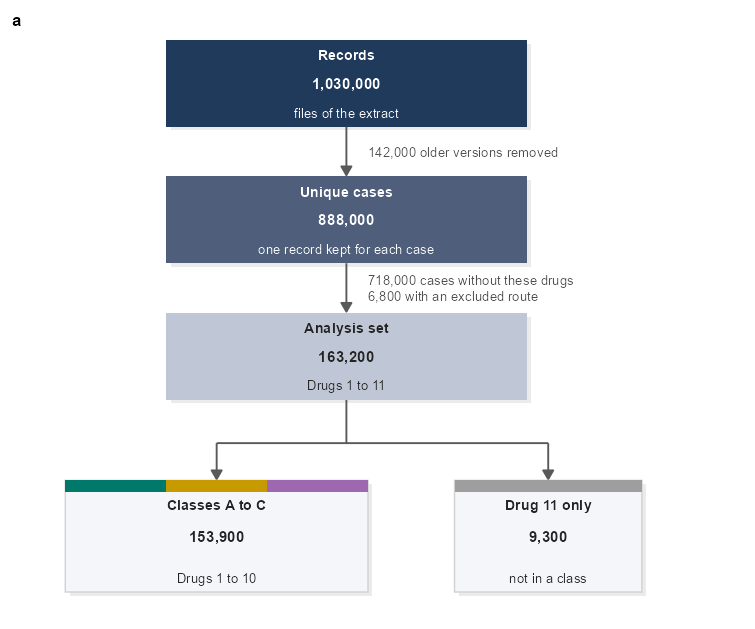
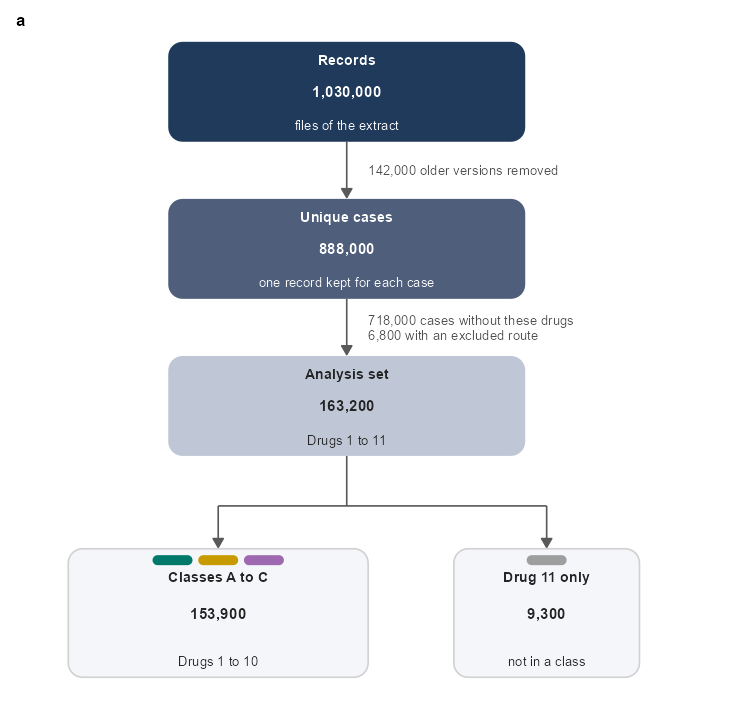
Give the flow chart of the reporting study rounded, flat boxes
The boxes are polygons with a quarter of a circle at each corner (ggplot2 has no rounded rectangle), the shadows are gone, the outlines and the arrows share one line width, the classes are small pills in place of the strips, and coord_fixed() keeps the corners round. The style follows the design rules of FigForge, a tool in which an AI model draws diagrams; none of its code or prompts is used, and the article and the NEWS say so. Version 1.8.8.

diff --git a/articles/reporting-study.md b/articles/reporting-study.md
@@ -179,8 +179,8 @@ head(cells[cells$signal, c("drug", "event", "a", "ror", "lo", "hi")], 4)
 
 ## 2. Figure 1: The Flow of the Cases
 
-A flow chart is a plot with no axes: boxes are `geom_rect()`, their text
-is `geom_text()`, and the arrows are `geom_segment()` with an `arrow()`.
+A flow chart is a plot with no axes: boxes are polygons, their text is
+`geom_text()`, and the arrows are `geom_segment()` with an `arrow()`.
 Everything sits on a plane of 100 by 100, so that the position of a box
 is a number that can be read and changed. The counts are computed from
 the study, so that the chart agrees with the figures after it.
@@ -208,6 +208,24 @@ boxes$ink <- c("white", "white", ink, ink, ink)
 boxes$x <- (boxes$xmin + boxes$xmax) / 2
 boxes$y <- (boxes$ymin + boxes$ymax) / 2
 
+# ggplot2 has no rounded rectangle, so a box is a polygon: a quarter of a circle at each corner
+polygon_of <- function(xmin, xmax, ymin, ymax, radius, id, fill, edge) {
+  turn <- seq(0, pi / 2, length.out = 9)
+  corner <- function(cx, cy, from) cbind(cx + radius * cos(from + turn), cy + radius * sin(from + turn))
+  p <- rbind(corner(xmax - radius, ymax - radius, 0), corner(xmin + radius, ymax - radius, pi / 2),
+             corner(xmin + radius, ymin + radius, pi), corner(xmax - radius, ymin + radius, 3 * pi / 2))
+  data.frame(x = p[, 1], y = p[, 2], id = id, fill = fill, edge = edge)
+}
+shapes <- do.call(rbind, lapply(seq_len(nrow(boxes)), function(i)
+  with(boxes[i, ], polygon_of(xmin, xmax, ymin, ymax, 2, paste0("box", i), fill, edge))))
+
+# a small pill in the color of each class at the top of the two boxes of the classes
+pills <- data.frame(box = c(4, 4, 4, 5), place = c(1, 2, 3, 1), count = c(3, 3, 3, 1), fill = unname(class_fill))
+pills$xmin <- boxes$x[pills$box] - (pills$count * 5.6 + (pills$count - 1) * 0.8) / 2 + (pills$place - 1) * 6.4
+pills$ymax <- boxes$ymax[pills$box] - 0.9
+shapes <- rbind(shapes, do.call(rbind, lapply(seq_len(nrow(pills)), function(i)
+  with(pills[i, ], polygon_of(xmin, xmin + 5.6, ymax - 1.4, ymax, 0.7, paste0("pill", i), fill, NA)))))
+
 # the arrows: down the stack, and from the analysis set into its two groups
 trunk <- boxes$x[1]
 down <- data.frame(x = c(trunk, trunk, boxes$x[4], boxes$x[5]), y = c(boxes$ymin[1], boxes$ymin[2], 33, 33),
@@ -219,42 +237,40 @@ notes <- data.frame(
             sprintf("%s cases without these drugs\n%s with an excluded route", big(n_nodrug), big(n_local)))
 )
 
-# a strip of the class colors above the first group, and a grey one above the second
-strips <- data.frame(xmin = c(6 + c(0, 14, 28), 60), xmax = c(6 + c(14, 28, 42), 86), ymin = 25.2, ymax = 27,
-                     fill = unname(class_fill[c(1, 2, 3, 4)]))
-
-shadows <- transform(boxes, xmin = xmin + 0.6, xmax = xmax + 0.6, ymin = ymin - 0.6, ymax = ymax - 0.6)
+thin <- 0.35                                             # one line width for the outlines and the arrows
 arrowhead <- arrow(length = unit(1.6, "mm"), type = "closed")
 flow <- ggplot() +
-  geom_segment(data = joint, aes(x = x, xend = xend, y = y, yend = yend), linewidth = 0.4, colour = grey(0.35)) +
-  geom_segment(data = down, aes(x = x, xend = x, y = y, yend = yend), arrow = arrowhead, linewidth = 0.4, colour = grey(0.35)) +
-  geom_rect(data = shadows, aes(xmin = xmin, xmax = xmax, ymin = ymin, ymax = ymax), fill = grey(0.4), alpha = 0.13, colour = NA) +
-  geom_rect(data = boxes, aes(xmin = xmin, xmax = xmax, ymin = ymin, ymax = ymax, fill = fill, colour = edge), linewidth = 0.3) +
-  geom_rect(data = strips, aes(xmin = xmin, xmax = xmax, ymin = ymin, ymax = ymax, fill = fill)) +
+  geom_segment(data = joint, aes(x = x, xend = xend, y = y, yend = yend), linewidth = thin, colour = grey(0.35)) +
+  geom_segment(data = down, aes(x = x, xend = x, y = y, yend = yend), arrow = arrowhead, linewidth = thin, colour = grey(0.35)) +
+  geom_polygon(data = shapes, aes(x = x, y = y, group = id, fill = fill, colour = edge), linewidth = thin) +
   geom_text(data = boxes, aes(x = x, y = ymax - 2.5 - 1.4 * (ymax < 30), label = head, colour = ink), size = 6.5 / .pt, fontface = "bold") +
   geom_text(data = boxes, aes(x = x, y = y, label = big(n), colour = ink), size = 7 / .pt, fontface = "bold") +
   geom_text(data = boxes, aes(x = x, y = ymin + 2.3, label = note, colour = ink), size = 6 / .pt) +
   geom_text(data = notes, aes(x = x, y = y, label = label), hjust = 0, size = small_text, colour = grey(0.3), lineheight = 0.95) +
   scale_fill_identity() + scale_colour_identity() +
-  scale_x_continuous(limits = c(0, 100), expand = expansion(0)) + scale_y_continuous(limits = c(5, 100), expand = expansion(0)) +
+  coord_fixed(xlim = c(0, 100), ylim = c(5, 100), expand = FALSE) +
   theme_void(base_size = 7) + tag_theme
 
 tag_panels(flow, 1)
 ```
 
-<img src="reporting-study_files/figure-gfm/figure_1-1.png" alt="A flow chart of three boxes in dark to light slate blue, one below the other, joined by arrows with notes about what was removed at the right of each arrow. The last of them splits into two pale boxes, with a strip of three colors above the first and a grey strip above the second." width="66%" />
+<img src="reporting-study_files/figure-gfm/figure_1-1.png" alt="A flow chart of three boxes in dark to light slate blue, one below the other, joined by arrows with notes about what was removed at the right of each arrow. The last of them splits into two pale boxes, with three small colored pills at the top of the first and a grey pill at the top of the second. All the boxes have rounded corners." width="66%" />
 
 _Figure 1. Flow of the cases into the analysis. The records of the
 extract, the unique cases, the analysis set of Drugs 1 to 11, and its
 two groups, with what is removed at each step written beside its arrow.
-The strips give the colors of the classes. All counts are simulated._
+The pills give the colors of the classes. All counts are simulated._
 
 - The first three boxes are three steps of one cool slate, darkest
   first, and the last two are pale. The only colors of the chart are the
-  strips on top of the last two: the colors of the three classes for the
-  box that holds them, the grey of “no class” for Drug 11. A pale
-  shadow, the same box moved a little and made transparent, lifts the
-  boxes off the page.
+  small pills at the top of the last two: the colors of the three
+  classes for the box that holds them, the grey of “no class” for Drug
+  11.
+- The style is flat: no shadow, rounded boxes, and one line width
+  (`thin`) for the outlines and the arrows. ggplot2 has no rounded
+  rectangle, so `polygon_of()` draws one as a polygon with a quarter of
+  a circle at each corner, and `coord_fixed()` keeps a unit of x and a
+  unit of y equal on the page, so that the corners stay round.
 - What is removed at each step is written beside its arrow, in a size
   that fits in the margin, and the number inside each box is the one
   that remains.
@@ -708,13 +724,16 @@ them, and the last is in the theme of the set.
 ## 8. Packages and Credits
 
 The figures are drawn with ggplot2 and laid out with patchwork (Thomas
-Lin Pedersen), which `themeset` suggests, not requires. The tree comes
-from `hclust()` of base R, and the colors from `hcl()` of base R, which
-builds a color from its hue, chroma and lightness: the three group
-colors were found by a search over those three numbers, for a large
-distance between them in CIEDE2000 with normal vision and with the three
-kinds of color-vision deficiency, and the gold was then deepened so that
-a thin line of it can be seen on white.
+Lin Pedersen), which `themeset` suggests, not requires. The flat style
+of the flow chart, with rounded boxes, thin lines and short labels,
+follows the design rules of FigForge (hengzzzhou on GitHub), a tool in
+which an AI model draws diagrams; none of its code or prompts is used.
+The tree comes from `hclust()` of base R, and the colors from `hcl()` of
+base R, which builds a color from its hue, chroma and lightness: the
+three group colors were found by a search over those three numbers, for
+a large distance between them in CIEDE2000 with normal vision and with
+the three kinds of color-vision deficiency, and the gold was then
+deepened so that a thin line of it can be seen on white.
 
 ------------------------------------------------------------------------
 

diff --git a/NEWS.md b/NEWS.md
@@ -1,3 +1,13 @@
+# themeset 1.8.8
+
+* The flow chart of "A Figure Set for a Reporting Study" is flat: rounded boxes, no
+  shadows, one line width for the outlines and the arrows, and small pills in the
+  class colors in place of the strips. ggplot2 has no rounded rectangle, so each box
+  is a polygon with a quarter of a circle at its corners, and `coord_fixed()` keeps
+  the corners round. The style follows the design rules of FigForge (hengzzzhou on
+  GitHub), a tool in which an AI model draws diagrams; none of its code or prompts
+  is used.
+
 # themeset 1.8.7
 
 * The seven figures of "A Figure Set for a Reanalysis" are checked as PDF files,
